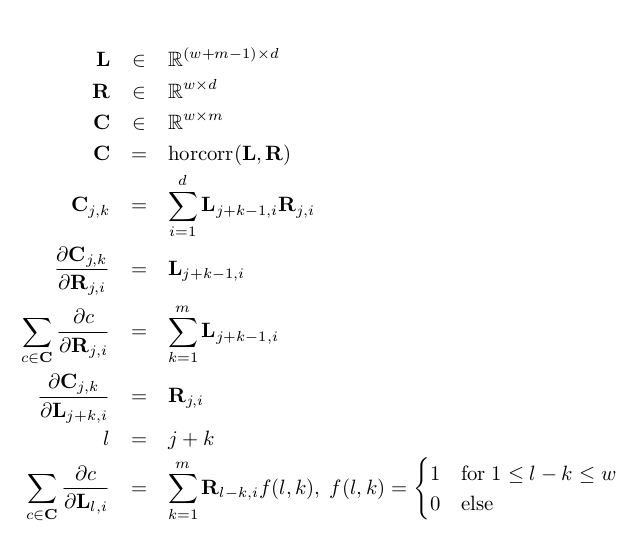
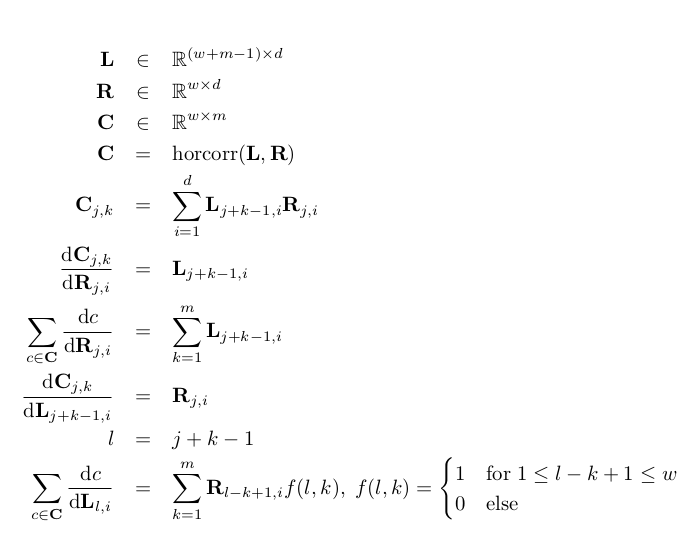
math updated

diff --git a/tex/root.tex b/tex/root.tex
@@ -2,6 +2,8 @@
 \usepackage{amsmath}
 \usepackage{amsfonts}
 \usepackage{amssymb}
+\usepackage{physics}
+
 \begin{document}
 \begin{eqnarray*}
     \mathbf{L} & \in & \mathbb{R}^{(w + m - 1) \times d} \\
@@ -9,12 +11,12 @@
     \mathbf{C} & \in & \mathbb{R}^{w \times m} \\
     \mathbf{C} & = & \text{horcorr}(\mathbf{L}, \mathbf{R}) \\
     \mathbf{C}_{j, k} & = & \sum_{i = 1}^{d} \mathbf{L}_{j + k - 1, i} \mathbf{R}_{j,i} \\
-    \frac{\partial \mathbf{C}_{j, k}}{\partial \mathbf{R}_{j,i}} & = & \mathbf{L}_{j + k - 1, i} \\
-    \sum_{c \in \mathbf{C}} \frac{\partial c}{\partial \mathbf{R}_{j,i}} & = & \sum_{k = 1}^{m} \mathbf{L}_{j + k - 1, i} \\
-    \frac{\partial \mathbf{C}_{j, k}}{\partial \mathbf{L}_{j + k, i}} & = & \mathbf{R}_{j,i} \\
-    l & = & j + k \\
-    \sum_{c \in \mathbf{C}} \frac{\partial c}{\partial \mathbf{L}_{l, i}} & = & \sum_{k = 1}^{m}
-        \mathbf{R}_{l - k,i} f(l, k), \; f(l, k) = \begin{cases} 1 & \text{for} \; 1 \leq l - k \leq w\\
+    \dv{\mathbf{C}_{j, k}}{\mathbf{R}_{j,i}} & = & \mathbf{L}_{j + k - 1, i} \\
+    \sum_{c \in \mathbf{C}} \dv{c}{\mathbf{R}_{j,i}} & = & \sum_{k = 1}^{m} \mathbf{L}_{j + k - 1, i} \\
+    \dv{\mathbf{C}_{j, k}}{\mathbf{L}_{j + k - 1, i}} & = & \mathbf{R}_{j,i} \\
+    l & = & j + k - 1 \\
+    \sum_{c \in \mathbf{C}} \dv{c}{\mathbf{L}_{l, i}} & = & \sum_{k = 1}^{m}
+        \mathbf{R}_{l - k + 1,i} f(l, k), \; f(l, k) = \begin{cases} 1 & \text{for} \; 1 \leq l - k + 1 \leq w\\
         0 & \text{else}
     \end{cases}
 \end{eqnarray*}
